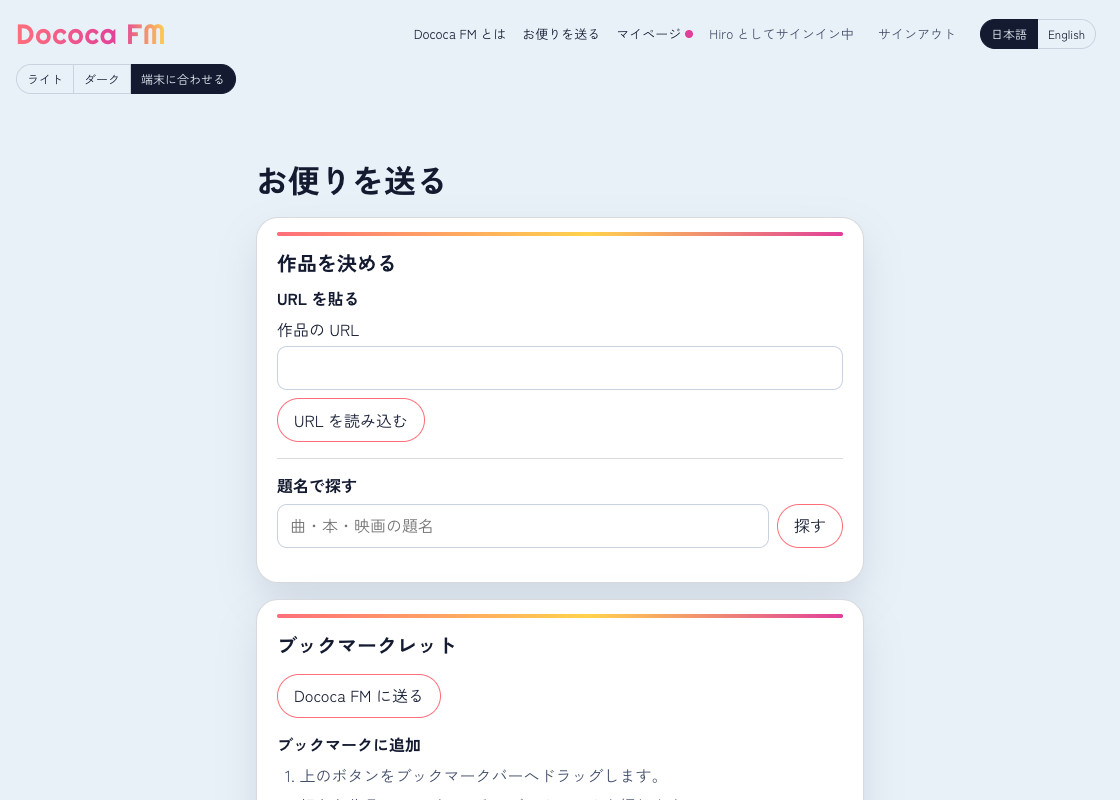
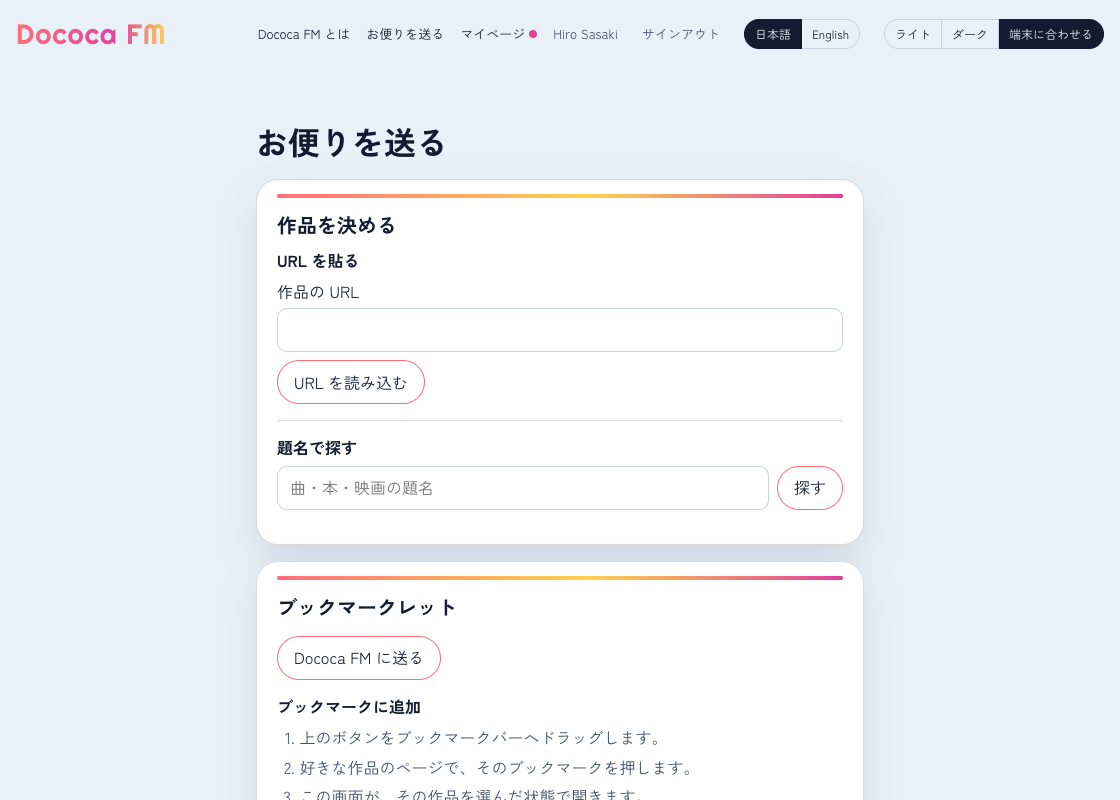
fix: reaction dot by listener id and a header that fits
点のチェックをリスナーのオブジェクトではなく id で引く（コピーを渡すページでも出る）。/me の既読の書き込みが失敗してもページは落とさない。サインイン済みのヘッダは名前だけ（文は title）にして 1120 で 1 行、スマホはナビの間隔とサインアウトの余白を詰めて 2 行に収める。

Changed region(s): [[0.2188, 0.1562, 0.7812, 1.0], [0.25, 0.0, 1.0, 0.0625], [0.0625, 0.0625, 0.2188, 0.125]]

diff --git a/src/worker/reaction-notice.ts b/src/worker/reaction-notice.ts
@@ -4,20 +4,28 @@ import { hasUnseenReactions } from "./db/letters";
 import type { Env } from "./env";
 import type { Listener } from "./types";
 
-/**
- * The header's dot for new reactions. The session middleware's listener object is the key: a signed-in `GET` registers the
- * check here, and the header runs it only when it draws the `/me` link, so a JSON read or a redirect costs nothing.
- */
-const checks = new WeakMap<Listener, () => Promise<boolean>>();
+type Check = () => Promise<boolean>;
 
-export const reactionNotice: MiddlewareHandler<{ Bindings: Env; Variables: Variables }> = (c, next) => {
+/**
+ * The header's dot for new reactions. A signed-in `GET` registers the check under the listener's id for as long as the
+ * request runs; the header runs it only when it draws the `/me` link, so a JSON read or a redirect costs nothing. Keyed by
+ * id, a page that passes a copy of the listener still finds it.
+ */
+const checks = new Map<string, Check>();
+
+export const reactionNotice: MiddlewareHandler<{ Bindings: Env; Variables: Variables }> = async (c, next) => {
   const listener = c.get("listener");
-  if (c.req.method === "GET" && listener?.googleSub) {
-    let asked: Promise<boolean> | null = null;
-    checks.set(listener, () => (asked ??= hasUnseenReactions(c.env.DB, listener.id).catch(() => false)));
+  if (c.req.method !== "GET" || !listener?.googleSub) return next();
+  let asked: Promise<boolean> | null = null;
+  const check: Check = () => (asked ??= hasUnseenReactions(c.env.DB, listener.id).catch(() => false));
+  checks.set(listener.id, check);
+  try {
+    await next();
+  } finally {
+    // Two tabs of one listener may overlap: leave the other request's check in place.
+    if (checks.get(listener.id) === check) checks.delete(listener.id);
   }
-  return next();
 };
 
-/** False for a listener nobody registered (not signed in, not a `GET`, or a copy of the session's object). */
-export const unseenReactions = (listener: Listener): Promise<boolean> => checks.get(listener)?.() ?? Promise.resolve(false);
+/** False for a listener nobody registered (not signed in, or not a `GET`). */
+export const unseenReactions = (listener: Listener): Promise<boolean> => checks.get(listener.id)?.() ?? Promise.resolve(false);

diff --git a/test/worker/views/layout.test.ts b/test/worker/views/layout.test.ts
@@ -119,6 +119,19 @@ describe("the header's notice of new reactions", () => {
     expect(meLink(await (await get("/", cookie)).text())).not.toContain('class="dot"');
   });
 
+  it("shows on a page that passes a copy of the listener (/settings filling in an address)", async () => {
+    const cookie = await signedInSession();
+    const mine = await letterBy(idOf(cookie));
+    await react(mine);
+    const html = await (await get("/settings", cookie)).text();
+    expect(meLink(html)).toContain('class="dot"');
+  });
+
+  it("names the signed-in listener by name alone, the full sentence in its title", async () => {
+    const html = await (await get("/put", await signedInSession("Hiro"))).text();
+    expect(html).toMatch(/<span class="site-user" title="Hiro としてサインイン中">Hiro<\/span>/);
+  });
+
   it("is never shown to a listener who has not signed in", async () => {
     const cookie = await newSession();
     const mine = await letterBy(idOf(cookie));

diff --git a/src/worker/routes/me.tsx b/src/worker/routes/me.tsx
@@ -33,7 +33,8 @@ me.get("/me", requireSignin, async (c) => {
   const reactions = await listRecentReactionsToListener(c.env.DB, listener.id, REACTIONS_LIMIT);
   const items = await getItemsByIds(c.env.DB, reactions.map((r) => r.itemId));
   const heard = await listHeardLetters(c.env.DB, listener.id);
-  await markReactionsSeen(c.env.DB, listener.id, seenAt);
+  // The dot is a decoration: a failed write leaves it lit, it does not fail the page.
+  await markReactionsSeen(c.env.DB, listener.id, seenAt).catch(() => {});
   const publicUrl = listener.stationPublic && listener.stationSlug ? stationUrl(c.env, listener.stationSlug) : null;
   // Shown once: the script drops the query, so a reload does not repeat it. A listener who is already public has no news in it.
   const welcome = c.req.query("welcome") === "1" && listener.stationSlug && !listener.stationPublic ? stationUrl(c.env, listener.stationSlug) : null;

diff --git a/src/views/layout.tsx b/src/views/layout.tsx
@@ -64,7 +64,9 @@ function SiteHeader({ listener, path, lang }: { listener?: Listener; path?: stri
           (signedIn ? (
             <>
               <MeLink listener={listener} label={t("me.title")} dot={t("me.newReactions")} here={path?.split("?")[0] === "/me"} />
-              <span class="site-user">{t("signin.as", { name: listener.displayName })}</span>
+              <span class="site-user" title={t("signin.as", { name: listener.displayName })}>
+                {listener.displayName}
+              </span>
               <form method="post" action="/auth/signout">
                 <button type="submit" class="quiet">{t("signin.out")}</button>
               </form>

diff --git a/public/app.css b/public/app.css
@@ -194,7 +194,11 @@ a {
 }
 
 .site-header .site-user {
+  max-width: 12em;
+  overflow: hidden;
   color: var(--ink-2);
+  text-overflow: ellipsis;
+  white-space: nowrap;
 }
 
 /* New reactions wait on /me: a dot, never a number. */
@@ -291,11 +295,16 @@ a {
   .site-header nav {
     order: 3;
     flex: 1 0 100%;
-    gap: 0 var(--sp-3);
+    gap: 0 var(--sp-2);
   }
 
   .site-header .site-user {
     display: none;
+  }
+
+  /* Sign-out lines up with the links, so a signed-in nav stays on one row. */
+  .site-header nav .quiet {
+    padding: 0;
   }
 
   .lang-toggle {

diff --git a/docs/DESIGN.md b/docs/DESIGN.md
@@ -73,7 +73,7 @@ CSS 変数は `:root` にライト、`@media (prefers-color-scheme: dark)` と `
 | 説明ページ（`/about`） | `main.about`: `h1`「Dococa FM とは」、リードの一文、`.panel` を縦に 4 枚（聴く / 送る / 自分のラジオ / できること・しないこと。各 `h2`、挿絵 `figure.about-art`（`/about/<name>.jpg`、16:9、角丸はホームの KV と同じ 16px）、本文 1 段落）。幅と余白は `/put` と同じ。ヘッダの「Dococa FM とは」はこのページで太字・下線（`aria-current="page"`） | 件数・「局」・時事は書かない。お便りは原文のまま、の約束を載せる |
 | お便りを送るページ（`/put`） | `.panel` を縦に 3 枚。「作品を決める」（URL を貼る / 好きなものから選ぶ / 題名で探す を細い上罫で区切る。選んだ作品はパネルの頭にカード）→「お便りを書く」（作品を選んだときだけ）→「ブックマークレット」（ドラッグできる `a.button` と、ブックマークに追加の 3 行）。検索結果は 64px の絵つきのカードを枠線 1px `--line`、丸角 12px のリンクにする | 題名で探すはサインイン済みだけ。匿名にはサインインの案内。結果に順位や件数を付けない |
 | マイページ（`/me`） | 初めてサインインした直後（`/me?welcome=1`）は見出しの下に 1 行（`.notice`）「公開ラジオの URL ができました: …（設定で公開にすると誰でも聴けます）」。URL はページが履歴から消すので、再読み込みでは出ない。`.panel` を縦に 4 枚: 「あなたの好きなもの」→「聴いたお便り」→「届いた反応」→「あなたの公開ラジオ」。好きなものは小さなカードのグリッド（PC 幅 2 列、スマホ幅 1 列。96px の絵の箱は絵が無くても残る、種別・作品名・作者、`お便りを送る` のリンク）。聴いたお便りと反応は上罫 1px `--line` で区切った縦の並び。聴いたお便りの「私も」「返す」は `.pill` の小さなボタン（13px、タップは 44px）。ページ内にサインアウトのフォームは置かない（ヘッダにある） | 空のときの文言はそのまま。数字は付けない |
-| ヘッダ `.site-header` | ワードマーク、ナビ（Dococa FM とは（全員に。表示中のページは `aria-current="page"`）/ お便りを送る / マイページ / サインイン。サインイン済みは名前とサインアウト）、言語切替（日本語 / English。`POST /lang`、現在の言語が押された状態）、テーマ切替の順。言語とテーマは同じ丸い 2〜3 連ボタン `.lang-toggle` / `.theme-toggle`。幅 480px 以下では 1 行目にワードマークと 2 つの切替、2 行目にナビ（名前は畳む）の 2 行までで、言語は `JA` / `EN`、テーマは ☀ / ☾ / 端末の短い表記（どれも `aria-label` は正式名）。言語切替は、ラジオが鳴っている間だけ「切り替えると再生が止まります。続けますか？」と確認する。サインイン済みで、自分のお便りに人の私も・一言が `/me` を最後に開いたあとに届いていれば、`マイページ` の右上に 8px の `--magenta` の点（`span.dot`、`role="img"`、`aria-label`「新しい反応があります」）。`/me` を開くと消え、`/me` では出さない | 反応の点に数字は付けない。言語切替は各言語の自言語名（日本語 / English）。設定ページに言語欄は無い |
+| ヘッダ `.site-header` | ワードマーク、ナビ（Dococa FM とは（全員に。表示中のページは `aria-current="page"`）/ お便りを送る / マイページ / サインイン。サインイン済みは名前だけ（「… としてサインイン中」は `title`。12em を超えると「…」）とサインアウト）、言語切替（日本語 / English。`POST /lang`、現在の言語が押された状態）、テーマ切替の順。言語とテーマは同じ丸い 2〜3 連ボタン `.lang-toggle` / `.theme-toggle`。幅 480px 以下では 1 行目にワードマークと 2 つの切替、2 行目にナビ（名前は畳む）の 2 行までで、言語は `JA` / `EN`、テーマは ☀ / ☾ / 端末の短い表記（どれも `aria-label` は正式名）。言語切替は、ラジオが鳴っている間だけ「切り替えると再生が止まります。続けますか？」と確認する。サインイン済みで、自分のお便りに人の私も・一言が `/me` を最後に開いたあとに届いていれば、`マイページ` の右上に 8px の `--magenta` の点（`span.dot`、`role="img"`、`aria-label`「新しい反応があります」）。`/me` を開くと消え、`/me` では出さない | 反応の点に数字は付けない。言語切替は各言語の自言語名（日本語 / English）。設定ページに言語欄は無い |
 | 共有ページ（`/letters/:id`）と `.embed-player` | `main.letter-page`（幅 40rem、縦に `gap` 16px）: 作品のカード → お便り（`.letter`。主文・原文トグル・送り主、私も・一言・通報）→ `.embed-player` → `a.button`「ラジオで続きを聴く」（`/?letter=<id>`）。`.embed-player` は `--panel` の地・丸角 22px・影、左に 96px の絵（無ければ coral → magenta）、右に作品名（700、1 行で省略）・送り主（`--ink-2`）・いま読んでいる行（2 行まで）・再生ボタン（magenta の塗り・`--on-magenta` の文字）。プレイヤーのページ（`/letters/:id/player`、480×200 の枠）は同じ部品だけを `data-theme="dark"` で全面に出し、ヘッダは無く、「Dococa FM で聴く」（`--sky`、`target="_top"`）を足す | 再生中はボタンが「一時停止」。音声の無い行は文字だけを読む長さだけ出して次へ |
 
 タップ領域は 44px 以上。フォーカスは `outline: 2px solid var(--sky); outline-offset: 2px`。
